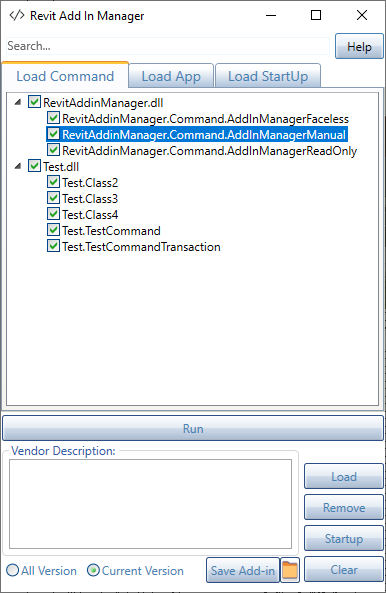
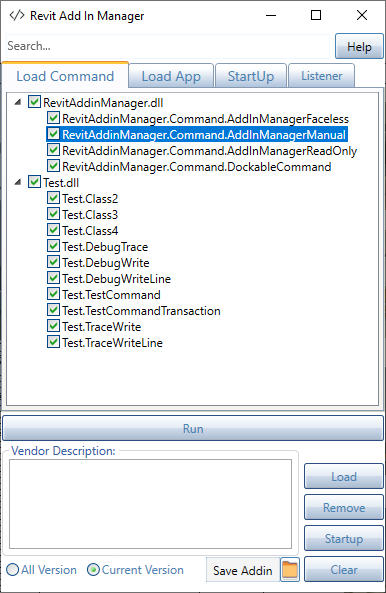
add readme

diff --git a/Readme.MD b/Readme.MD
@@ -32,6 +32,7 @@ The product will be expanded in the future in process to support mutiple platfor
     - AddInManagerReadOnly
     - Application
 - Startup manager
+- Debug / Trace : Support Show result use Debug.Write(), Debug.WriteLine(), Trace.Write(), Trace.WriteLine()
 - Quick create `.addin` and load to `Revit`
 - Clear Cache saved in temp folder
 - Quick remove an Add-in not used in working process
@@ -63,6 +64,13 @@ The product will be expanded in the future in process to support mutiple platfor
 - [x] Show info all add-in installed in computer include all Add-in from Autodesk.
 - [x] Enable or Disable Add-in.
 
+### Trace/Debug
+
+![](pic/debug-trace.png)
+
+- Show/Hide result inside Dockpanel
+- Show Result history inside **Revit Addin Manager**
+- Clear Result
 ---
 
 ## Installation
@@ -73,6 +81,35 @@ Please follow last release at section [Release](https://github.com/chuongmep/Rev
 
 ## Guideline
 
+- Quick Example to Execute a Command : 
+``` cs
+[Transaction(TransactionMode.Manual)]
+    public class TestCommand : IExternalCommand
+    {
+        public Result Execute(ExternalCommandData commandData, ref string message, ElementSet elements)
+        {
+            //Code Something 
+            return Result.Succeeded;
+        }
+    }
+```
+- Quick Example to Debug or Trace result output :
+
+```cs
+[Transaction(TransactionMode.Manual)]
+    public class TraceWriteLine : IExternalCommand
+    {
+        public Result Execute(ExternalCommandData commandData, ref string message, ElementSet elements)
+        {
+            //Trace or Debug Something
+            Debug.Write($"Message output");
+            Debug.WriteLine($"Message output");
+            Trace.Write($"Message output");
+            Trace.WriteLine($"Message output");
+            return Result.Succeeded;
+        }
+    }
+```
 You can visit to wiki and read document or access by this [link](https://github.com/chuongmep/RevitAddInManager/wiki).
 
 Some topic common:
